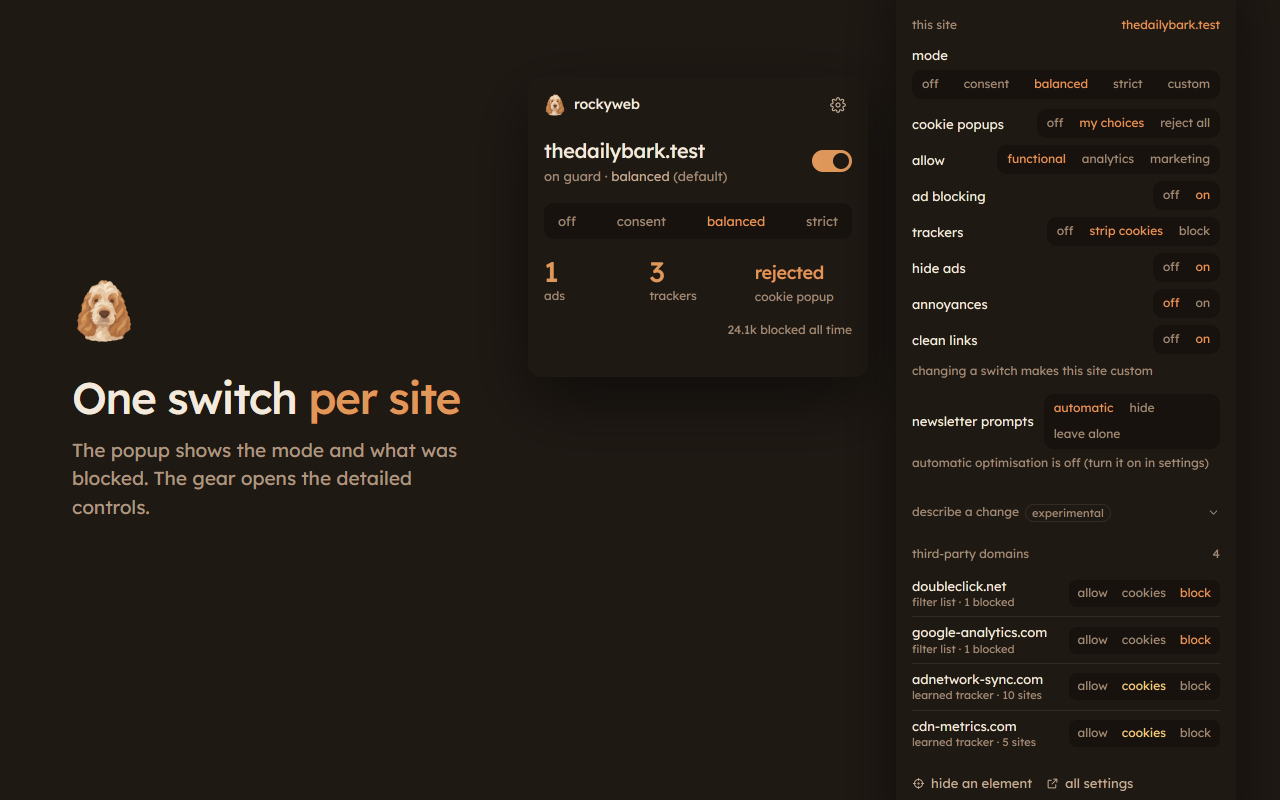
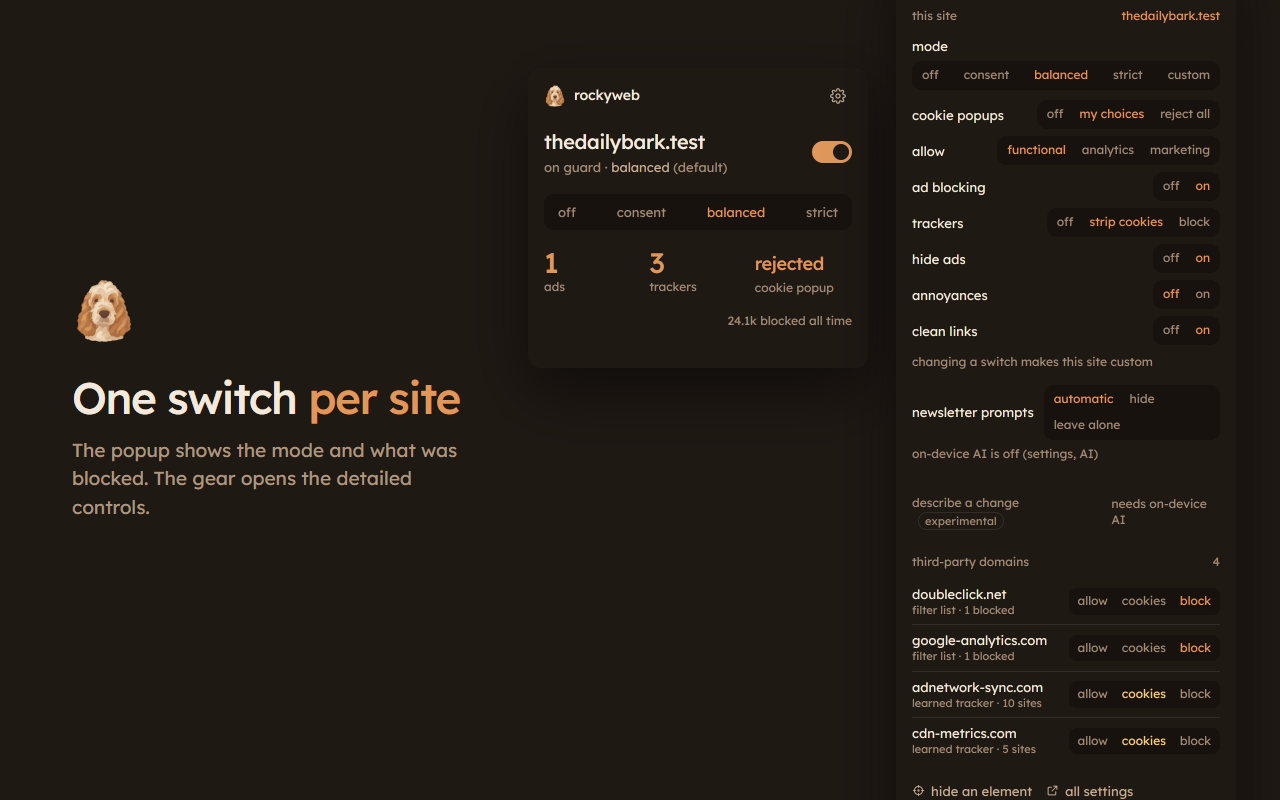
Version 1.1.1
On-device AI as an opt-in, first-run setup, clearer describe a change
messages, Light mode greying out the AI controls, and Rocky with his
dropped ball. Store screenshots rendered again with the new settings
nav.

diff --git a/CHANGELOG.md b/CHANGELOG.md
@@ -1,6 +1,20 @@
 # Changelog
 
-## 1.1.0 (not yet published)
+## 1.1.1
+
+### Changed
+
+- **On-device AI is a deliberate opt-in.** One switch under settings, AI, off by default. Turning it on explains the memory and battery cost and needs a confirm; the model downloads only from that click. While it is on, Rockyweb keeps the model loaded so answers come in seconds, and can optionally start Chrome when you sign in.
+- **First-run setup** replaces the welcome page: a short intro, then the general settings for every website (default mode, cookie popup answer, how hard Rockyweb works), already at the defaults. On a computer that can run Chrome's model, the AI switch sits at the bottom, off. Protection runs before setup is finished, and nothing is saved until done.
+- Light mode greys out the AI switches and page fixes in settings, and its info text says what it turns off.
+- The popup's error state shows Rocky with his dropped tennis ball.
+
+### Fixed
+
+- "Describe a change" no longer shows "Not supported: a protection change you did not ask for" next to a good page change. The unasked change is still removed.
+- When "describe a change" finds nothing it can do, it says so plainly instead of "That does not seem to ask for any change".
+
+## 1.1.0
 
 ### New
 

diff --git a/store/LISTING.md b/store/LISTING.md
@@ -8,7 +8,7 @@ Everything needed to publish Rockyweb. Text here is ready to paste into the deve
 npm run package
 ```
 
-Upload `dist/rockyweb-1.1.0.zip`. The script runs the verification checks first and leaves out Chrome's `_metadata` cache.
+Upload `dist/rockyweb-1.1.1.zip`. The script runs the verification checks first and leaves out Chrome's `_metadata` cache.
 
 ## 2. Store listing
 
@@ -108,8 +108,8 @@ No login needed. A setup tab opens once after install: a short intro, then the g
 
 ## 6. Before you submit
 
-- [x] `npm run check`, `npm run test:e2e`, `npm run test:a11y` and `npm run test:upgrade` pass (2026-11-21, for 1.1.0)
+- [x] `npm run check`, `npm run test:e2e`, `npm run test:a11y` and `npm run test:upgrade` pass (2026-11-28, for 1.1.1)
 - [x] `npm run test:nano` passes on a machine with Chrome's on-device AI (real model, all Rockyweb pages closed; 2026-11-20, see `tests/nano/results.md`)
-- [ ] Version in `extension/manifest.json` bumped for every new upload
+- [x] Version in `extension/manifest.json` bumped for every new upload (1.1.1)
 - [ ] Repository public, so the privacy policy URL opens
 - [ ] Developer account has a verified contact email
